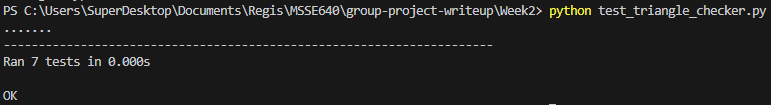
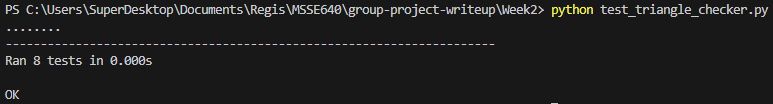
Updating with writeup.md

diff --git a/group-project-writeup/Week2/triangle_checker.py b/group-project-writeup/Week2/triangle_checker.py
@@ -2,8 +2,10 @@ def is_valid_triangle(a, b, c):
     """
     Check if three sides can form a valid triangle.
     A triangle is valid if the sum of any two sides is greater than the third side.
-    Also checks that all sides are positive.
+    Also checks that all sides are positive numbers.
     """
+    if not all(isinstance(x, (int, float)) for x in [a, b, c]):
+        raise ValueError("All sides must be numbers")
     if a <= 0 or b <= 0 or c <= 0:
         return False
     return a + b > c and a + c > b and b + c > a
@@ -15,6 +17,8 @@ def triangle_type(a, b, c):
     - Isosceles: at least two sides equal
     - Scalene: all sides different
     """
+    if not all(isinstance(x, (int, float)) for x in [a, b, c]):
+        raise ValueError("All sides must be numbers")
     if a == b == c:
         return "Equilateral"
     elif a == b or b == c or a == c:

diff --git a/group-project-writeup/Week2/test_triangle_checker.py b/group-project-writeup/Week2/test_triangle_checker.py
@@ -47,5 +47,16 @@ class TestTriangleChecker(unittest.TestCase):
         self.assertEqual(triangle_type(5, 3, 5), "Isosceles")
         self.assertEqual(triangle_type(3, 5, 5), "Isosceles")
 
+    def test_non_numerical_side(self):
+        """Test that non-numerical sides cause ValueError."""
+        with self.assertRaises(ValueError):
+            is_valid_triangle("a", 4, 5)
+        with self.assertRaises(ValueError):
+            is_valid_triangle(3, "b", 5)
+        with self.assertRaises(ValueError):
+            is_valid_triangle(3, 4, "c")
+        with self.assertRaises(ValueError):
+            triangle_type("a", 4, 5)
+
 if __name__ == '__main__':
     unittest.main()

diff --git a/group-project-writeup/Week2/Week2-writeup.md b/group-project-writeup/Week2/Week2-writeup.md
@@ -17,6 +17,7 @@ The IDE used for development was Visual Studio Code. Data is input into the prog
 | 5      | 5      | 3      | Yes    | Isosceles     |
 | 1      | 2      | 10     | No     | N/A           |
 | 0      | 4      | 5      | No     | N/A           |
+| 3      | 4      | a      | No     | N/A           |
 
 ## Unit Tests
 
@@ -33,11 +34,22 @@ No major problems were encountered during development. The program was straightf
 ## Screen Shots
 
 #### 1. **Successful Program Run**: 
-A screenshot showing the console output when running `triangle_checker.py` interactively, with inputs 3, 4, 5, displaying "The sides form a valid triangle. Triangle type: Scalene".
-#### Successful Program Run
+A screenshot showing the console output when running `triangle_checker.py` interactively. First  with inputs 3, 4, 5, displaying "The sides form a valid triangle. Triangle type: Scalene". Second,  with inputs 5, 5, 5, displaying "The sides form a valid triangle. Triangle type: Equilateral". Third,  with inputs 5, 5, 3, displaying "The sides form a valid triangle. Triangle type: Isosceles".
+#### Successful Program Run 1
 ![alt text](images/SuccessfulProgramRun.png)
+#### Successful Program Run 2
+![alt text](images/SuccessfulProgramRun2.png)
+#### Successful Program Run 3
+![alt text](images/SuccessfulProgramRun3.png)
 
-#### 2. **Unit Test Run**: 
-A screenshot of the terminal running `python -m unittest test_triangle_checker.py`, showing all tests passing (e.g., "Ran 7 tests in 0.001s OK").
+#### 2. **Unsuccessful Program Run**: 
+A screenshot showing the console output when running `triangle_checker.py` interactively. First  with inputs 0, 4, 5, displaying "The sides do not form a valid triangle". Second,  with inputs 3, 4, a, displaying "Invalid input. Please enter numeric values for the sides". 
+#### Unsuccessful Program Run 1
+![alt text](images/NonSuccessfulProgramRun.png)
+#### Unsuccessful Program Run 2
+![alt text](images/NonSuccessfulProgramRun2.png)
+
+#### 3. **Unit Test Run**: 
+A screenshot of the terminal running `python -m unittest test_triangle_checker.py`, showing all tests passing (e.g., "Ran 8 tests in 0.001s OK").
 #### Unit Test Successful Program Run
 ![alt text](images/UnitTestSuccessfulProgramRun.png)
